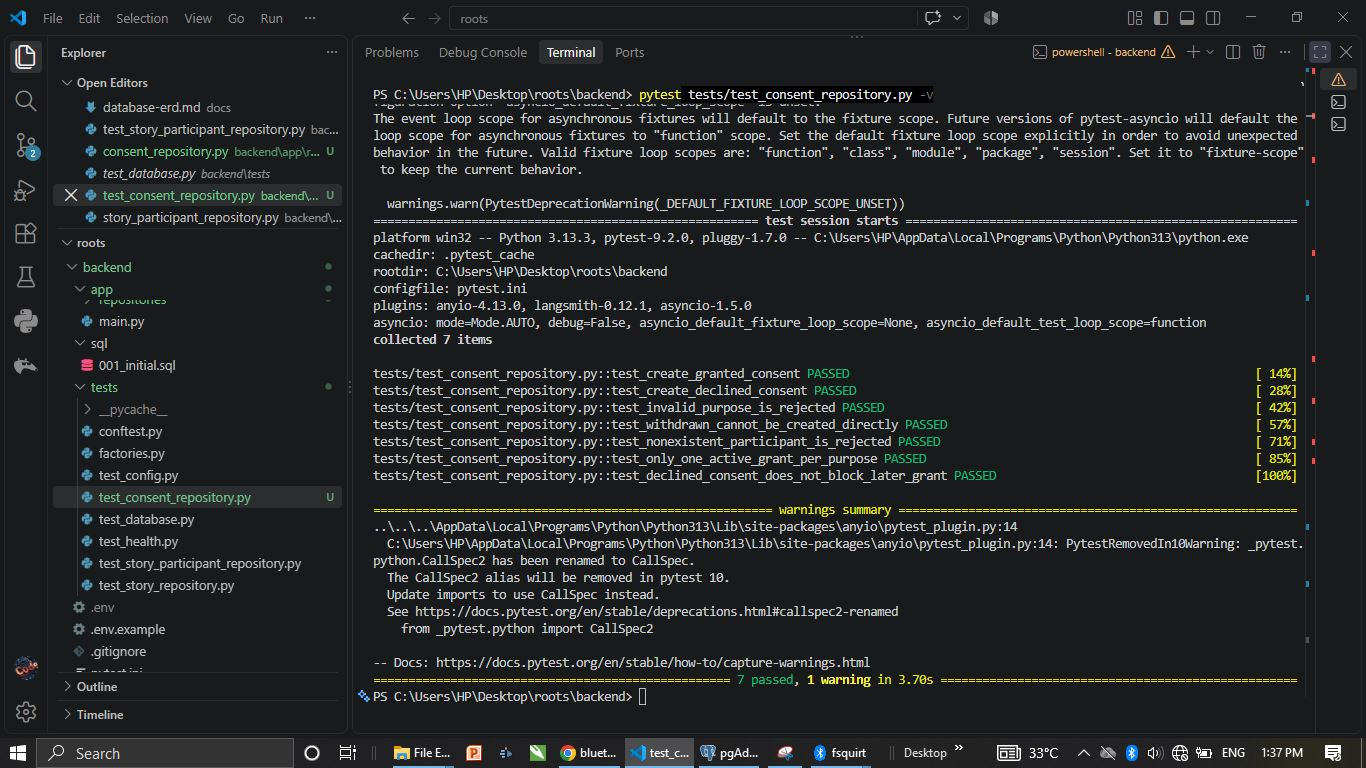
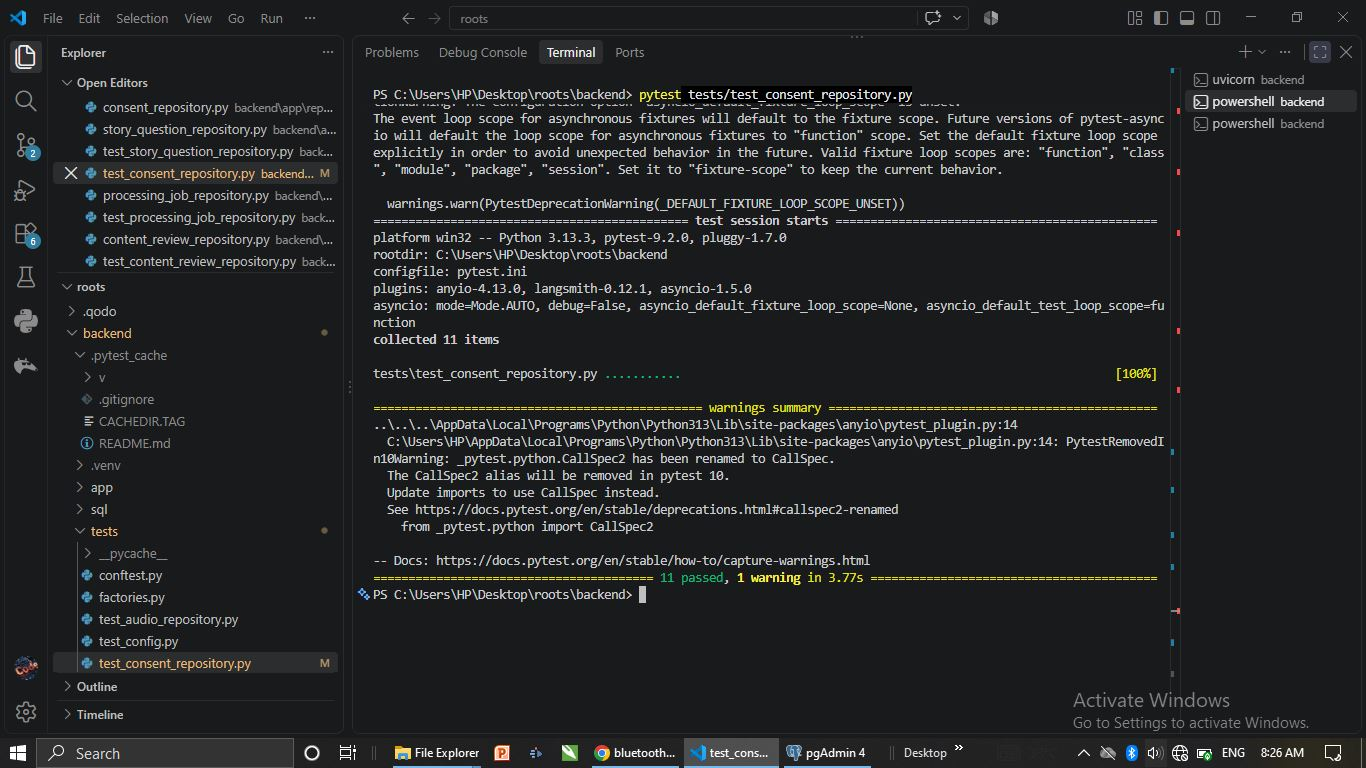
Fix consent repository test rendering

diff --git a/backend/tests/test_consent_repository.py b/backend/tests/test_consent_repository.py
@@ -178,10 +178,10 @@ async def test_list_participant_consents(conn: asyncpg.Connection) -> None:
     records = await list_participant_consents(conn, participant)
 
     assert len(records) == 2
-    assert [record["purpose"] for record in records] == [
+    assert {record["purpose"] for record in records} == {
         "transcription",
         "translation",
-    ]
+    }
 
 
 async def test_list_consents_does_not_return_other_participants_records(
